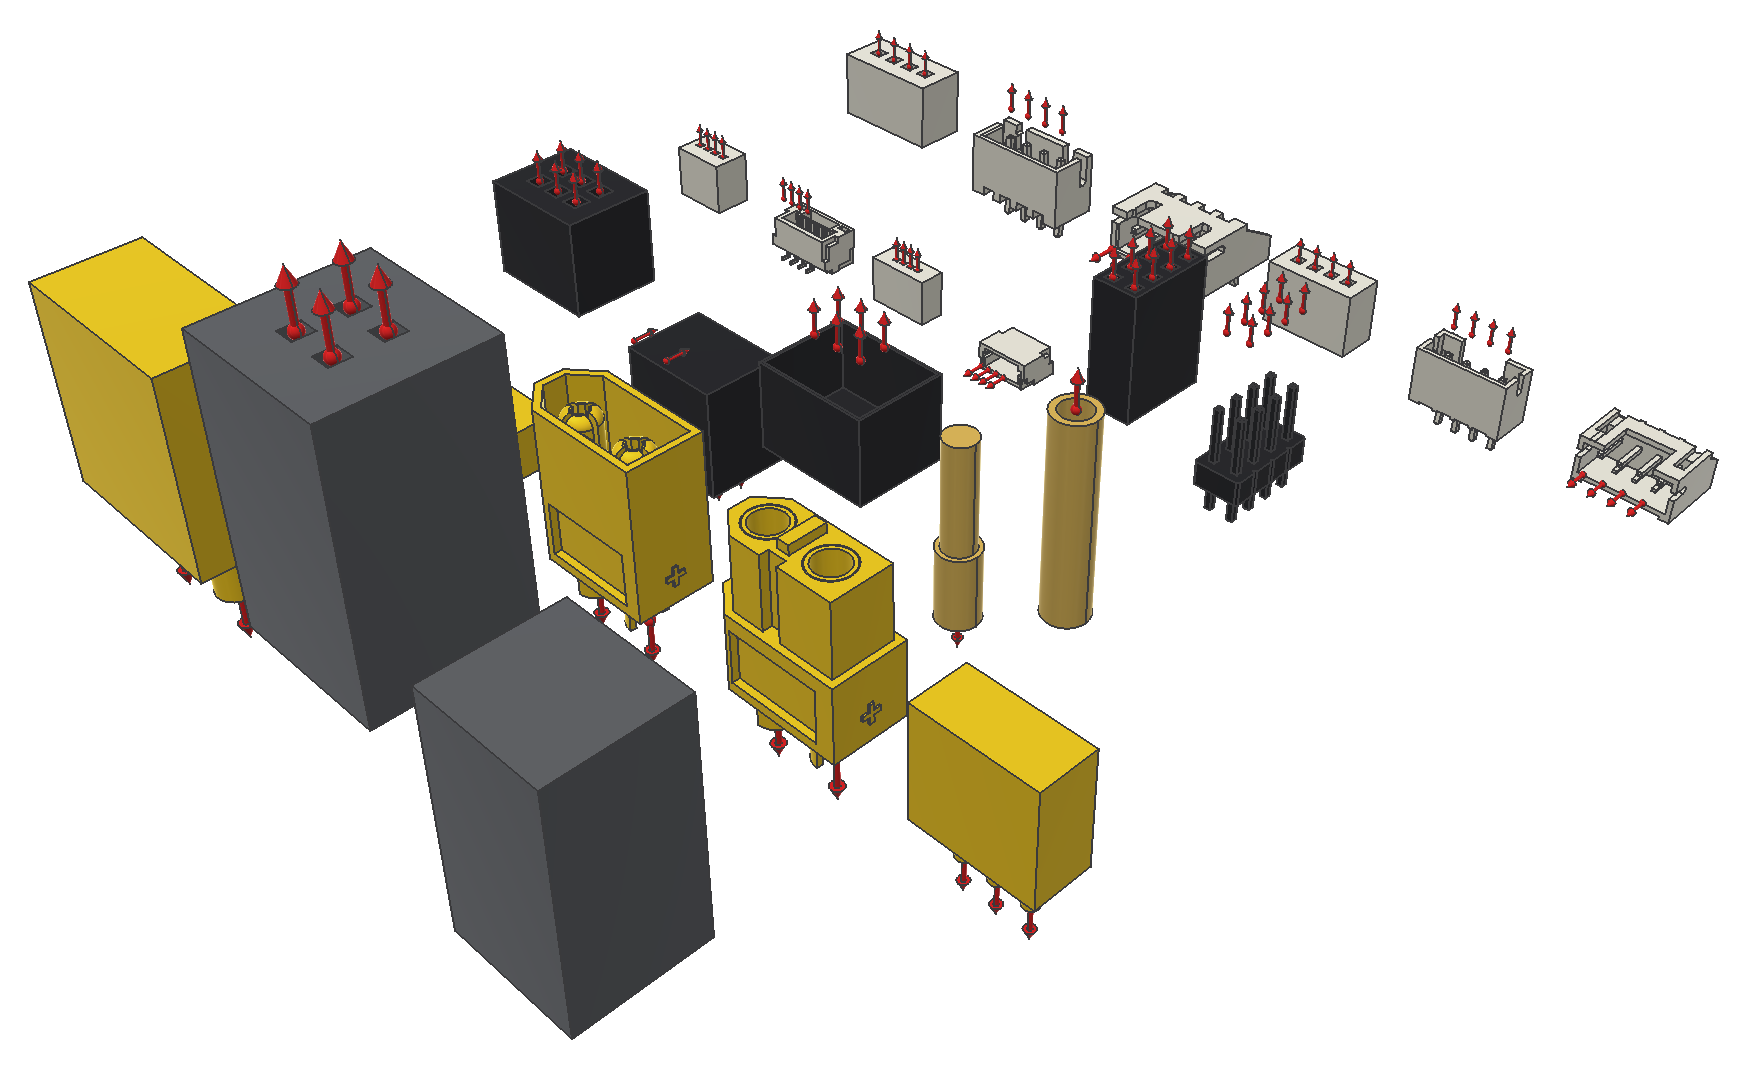
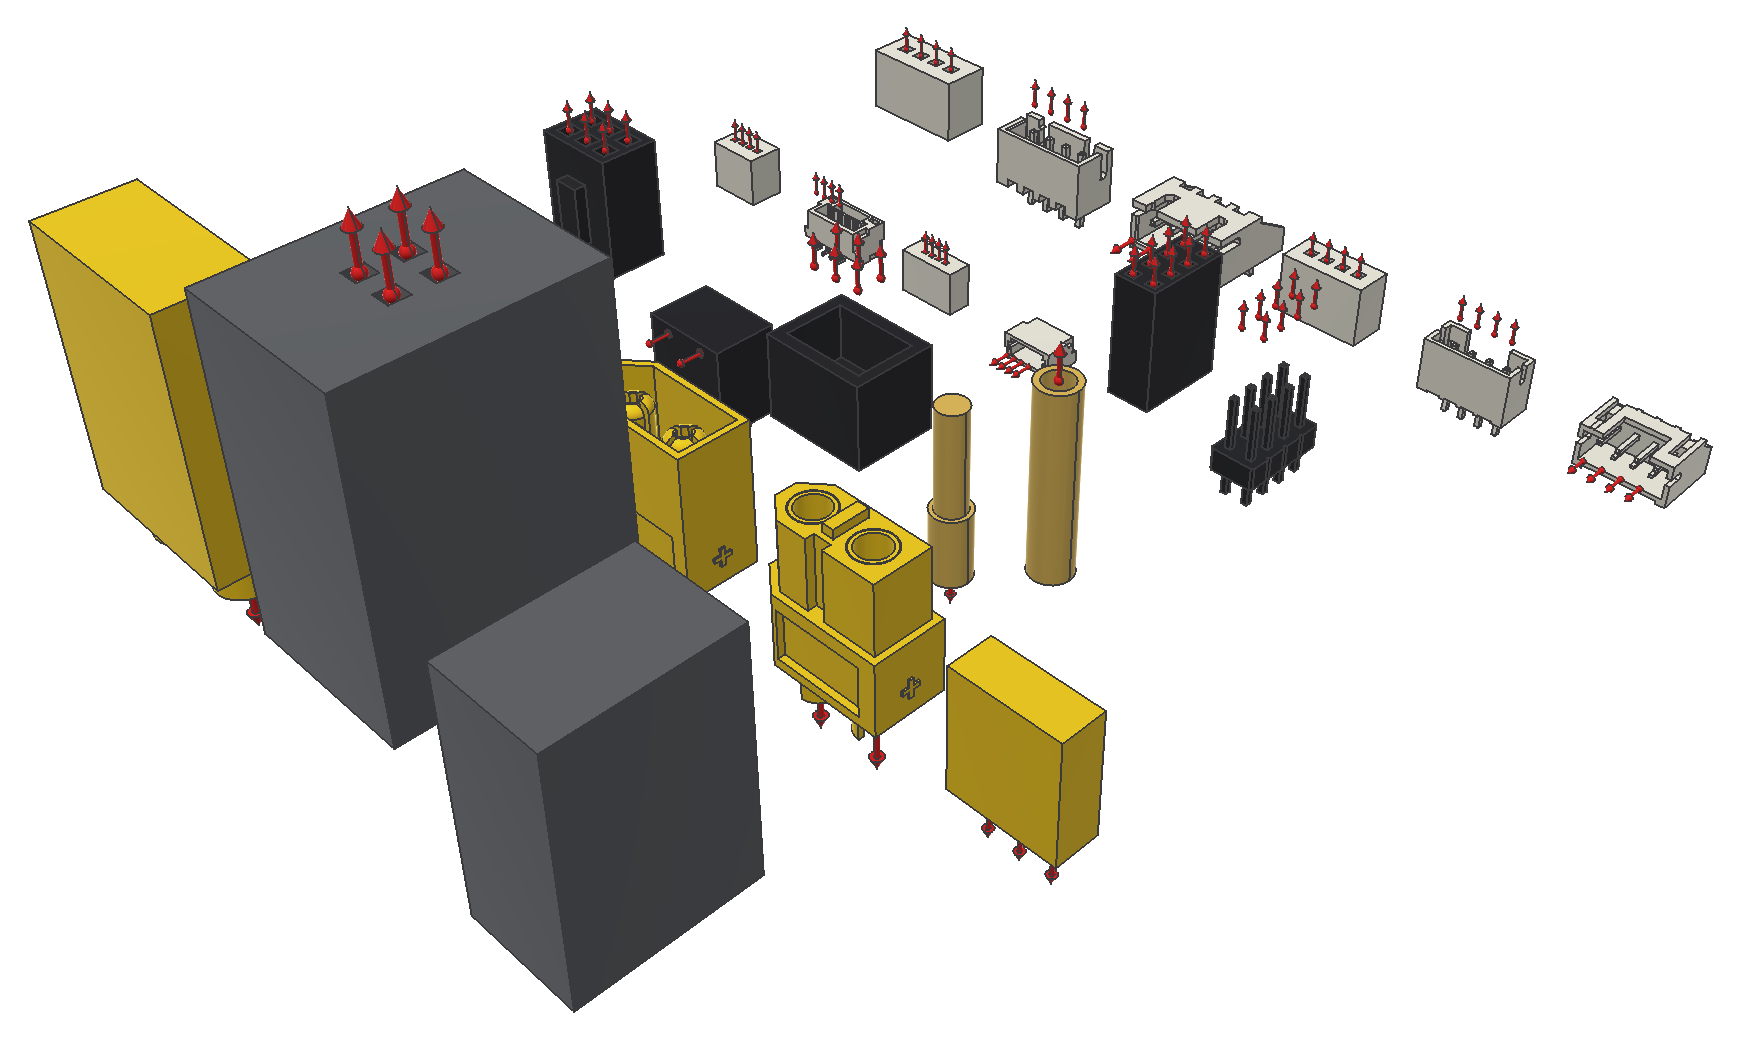
[BW] ROU-05: connector library chapter, answers and follow-up (30 Oct)
The connector library chapter gets the user's answers of 30 Oct and what was done: no further KiCad
models exist for the parametric families, terminals, seals and wedgelocks as Standard Library parts
ordered by manufacturer P/N, the dimension tables checked against the manufacturers' drawings, the
colours kept, the fresh dry-run numbering and the import command for the main session, and new open
questions. The figure is rendered again from the regenerated library.

Changed region(s): [[0.0, 0.0308, 0.9931, 0.8923], [0.2793, 0.8923, 0.3103, 0.9538], [0.3103, 0.9538, 0.3414, 0.9846]]

diff --git a/package/bruceworx/docs/fusion-ui-plan/chapters/75b-connlib-built.tex b/package/bruceworx/docs/fusion-ui-plan/chapters/75b-connlib-built.tex
@@ -61,19 +61,19 @@ JST GH (1.25) & 21 & 14 & 7 & \code{GHR-0nV-S}; \code{BM0nB-GHS-TBT}, \code{SM0n
   30--26\,AWG\\
 JST SH (1.00) & 21 & 14 & 7 & \code{SHR-0nV-S-B}; \code{BM0nB-SRSS-TB}, \code{SM0nB-SRSS-TB}; \code{SSH-003T-P0.2-H},
   32--28\,AWG\\
-Dupont 2.54 & 28 & 14 & 14 & housings $1\times2$--$1\times8$, $2\times2$--$2\times8$ (generic); male pin headers
-  (KiCad); generic female crimp, 28--22\,AWG\\
+Dupont 2.54 & 28 & 14 & 14 & Amphenol FCI Mini-PV housings \code{65039-0xxLF} ($1\times2$--$1\times8$),
+  \code{65043-0xxLF} ($2\times2$--$2\times8$); male pin headers (KiCad, generic); \code{48235-000LF}, 26--22\,AWG\\
 Micro-Fit 3.0 & 18 & 0 & 18 & \code{43025} receptacle, \code{43020} plug, \code{43045-xx12} vertical header (pads from
   KiCad, no model installed); \code{43030-0007}/\code{43031-0007}, 24--20\,AWG\\
 XT30 & 4 & 0 & 4 & \code{XT30U-M/F}, \code{XT30PW-M/F} (pads from KiCad); solder cup, 18--16\,AWG\\
 XT60 & 4 & 2 & 2 & \code{XT60-M/F} (KiCad models), \code{XT60PW-M/F}; 14--12\,AWG\\
-XT90 & 3 & 0 & 3 & \code{XT90-M/F}, \code{XT90PW-M}; 10--8\,AWG\\
+XT90 & 3 & 0 & 3 & \code{XT90H-M/F}, \code{XT90PW-M}; 10--8\,AWG\\
 MR30 & 4 & 0 & 4 & \code{MR30-M/F}, \code{MR30PW-M/FB}; 18--16\,AWG\\
 Bullet 3.5\,mm & 2 & 0 & 2 & male and female, solder cup, 16--14\,AWG (generic)\\
 Deutsch DT & 12 & 0 & 12 & \code{DT04-nP} receptacle (pin \code{0460-202-16141}), \code{DT06-nS} plug (socket
-  \code{0462-201-16141}); 20--16\,AWG; seal \code{114017}; wedgelocks \code{WnP}/\code{WnS}\\
+  \code{0462-201-16141}); 20--16\,AWG; wedgelocks \code{WnP}/\code{WnS}; no per-wire seal\\
 \midrule
-Total & 159 & 72 & 87 & every mating pair symmetric; 3\,MB of part files, built in 3.5\,s\\
+Total & 159 & 72 & 87 & every mating pair symmetric; plus 22 terminals, seals and wedgelocks (below)\\
 \bottomrule
 \end{tabularx}
 \end{center}
@@ -106,12 +106,12 @@ Distributing the library parts themselves (not designs) should keep that notice 
         P/N and mates by MPN.
   \item \textbf{Headers get frames} at the mated housing's rear face (\code{FrameAt}~=~\emph{Mated plug}, agreed with
         rou05), so routing to a board connector works before the wire-side housing is placed.
-  \item \textbf{Dupont} is generic (manufacturer ``Generic (Dupont-style)'', MPNs \code{DUPONT-HSG-1x04},
-        \code{HDR254-M-1x04}); female-crimp housings on male headers only.
-  \item \textbf{DT seal}: the DT wire seal is part of the rear grommet; \code{SealPN} holds \code{114017}, the sealing
-        plug for an unused cavity, and the notes say so.
-  \item \textbf{Colours} are not stored: a part saved by FreeCADCmd has no view data, so bodies open in the default
-        grey (the figure uses the manifest's colours).
+  \item \textbf{Dupont} housings are the original, Amphenol FCI Mini-PV (clones fit); the male pin headers stay
+        generic (\code{HDR254-M-1x04}); female-crimp housings on male headers only.
+  \item \textbf{DT seal}: the DT wire seal is the one-piece rear grommet inside the housing, so the pins have no
+        \code{SealPN}; \code{114017}, the sealing plug for an unused cavity, is a library part named in the notes.
+  \item \textbf{Colours} are stored: the library is built by the GUI FreeCAD (off screen), and the import puts the
+        view data back after FreeCADCmd numbers the copy (\code{restore\_view\_data}).
   \item \textbf{Import} through \code{vault\_setup.new\_item} with kind \emph{cots} (the Standard Libraries' type),
         not \code{vault import}, which numbers files as \emph{part}; the vault files themselves are unchanged.
 \end{itemize}
@@ -152,6 +152,130 @@ male-crimp housings and pin sockets; JST 1-pin and $>8$-pin, single-row Micro-Fi
   against the datasheets before the harness drawings rely on them? & Approximate, about $\pm1$\,mm.\\
 5 & JST crimp: \code{SXH-001T-P0.6} (28--22\,AWG) as the XH default, or \code{SXH-002T-P0.6} (30--26) for thin wire?
   & 001T; the other is in the notes.\\
+\bottomrule
+\end{tabularx}
+\end{center}
+
+%----------------------------------------------------------------------
+\subsubsection*{Answers and follow-up (30 Oct)}
+
+\begin{center}
+\small
+\begin{tabularx}{\linewidth}{@{}lXX@{}}
+\toprule
+\# & Your answer & What was done\\
+\midrule
+1 & Import into the real Standard Libraries: approved; the vault stays on the Extreme SSD; the main session runs it
+  with Keystone closed, after a backup. & Not run here (single writer). Library, manifest and the command below;
+  a fresh dry run on a fresh copy numbers all 181 parts.\\
+2 & Install KiCad's 3D models to replace the outlines. & Nothing to install: see below. Still 87 outlines.\\
+3 & Terminals and seals by manufacturer P/N; STD numbers for finding. & 22 terminals, seals and wedgelocks are
+  library parts; pins carry MPN and manufacturer, and the STD number after import; the ordering list prints
+  manufacturer and MPN.\\
+4 & Check Micro-Fit, Dupont, XT, MR30 and DT against the datasheets. & Done where the drawings could be had;
+  tables fixed (below), estimates marked.\\
+5 & Keep \code{SXH-001T-P0.6} as the XH crimp. & Kept.\\
+-- & Save view colours if cheap. & Done: GUI build, colours kept through the import.\\
+\bottomrule
+\end{tabularx}
+\end{center}
+
+\paragraph{KiCad models (answer 2).} The connector folders of the official library
+(\file{kicad-packages3D} on GitLab) were compared with what is installed: the tags \code{10.0.8} (KiCad~10's library;
+the app is 10.0.5), \code{9.0.3} back to \code{5.1.12}, and the \code{dev} branch. The installed
+\file{Connector\_JST}, \file{Connector\_Molex}, \file{Connector\_AMASS} and the 2.54\,mm pin header and socket folders
+are \emph{identical} to 10.0.8 (158, 89, 2, 278, 278 STEP files), and no tag or branch has a model for a Micro-Fit
+part, XT30, XT90, MR30, any JST wire housing or Deutsch DT (\file{Connector\_AMASS} has only the two XT60 models; TE has
+no DT). So nothing was downloaded and KiCad's setup is untouched; the 87 parametric connector outlines stay (28 JST housings, 14 Mini-PV
+housings, 18 Micro-Fit, 13 XT30/XT60PW/XT90/MR30, 2 bullets, 12 DT), and the 22 terminals, seals and wedgelocks
+are simple outlines too. Real bodies for them would have to come
+from the manufacturers' STEP files (Molex, TE, AMASS; behind logins and their own licences) --- question~6.
+
+\paragraph{Terminals, seals, wedgelocks (answer 3).} Agreed with rou05 as schema v1.2:
+\begin{itemize}[nosep]
+  \item each crimp pin has \code{TerminalPN} (the manufacturer's P/N, for ordering), \code{TerminalMfr} and
+        \code{TerminalItem} (its Standard Library P/N, for finding); \code{SealPN}/\code{SealMfr}/\code{SealItem} the
+        same; a DT connector lists its wedgelock in \code{Accessories} (\code{MPN|manufacturer|STD item|qty|kind});
+  \item the 22 parts are \emph{cots} items of their own with \code{Manufacturer}, \code{ManufacturerPartNumber} and
+        \code{AccessoryKind}: the JST, Mini-PV and Micro-Fit crimp terminals, the two Deutsch size-16 contacts, the
+        \code{114017} sealing plug and the twelve wedgelocks \code{W2P}\ldots\code{W12S};
+  \item the import numbers them first, then writes their STD numbers into every connector's pins and
+        \code{Accessories} as it checks the connector in; a terminal already in the vault keeps its number;
+  \item the import writes \file{vault\_numbers.csv} beside the manifest (vault P/N, manufacturer, MPN, description,
+        role): the list to order from. rou05's BOM keys the terminal lines by the STD item and prints
+        manufacturer and MPN.
+\end{itemize}
+
+\paragraph{Dimensions checked (answer 4).} Sources: Molex \emph{SD-43025-002} (receptacle) and the product pages of
+\code{43045-0212}/\code{-1415}; FCI customer drawing \emph{65043} rev.\,BG (Mini-PV dual row); the AMASS XT catalogue
+(Feb~2026, china-amass.com) and AMASS spec sheets for \code{XT30PW-M}, \code{XT60PW-M}, \code{XT90PW-M},
+\code{MR30PW-M}; the Deutsch industrial catalogue and TE drawing \emph{C-2286003} (\code{DT06-2S}). Molex, TE and
+Amphenol block scripted downloads, so the PDFs were read from distributor mirrors of the manufacturers' own
+drawings (chipdip, comet.bg, LCSC, onlinecomponents). What changed:
+\begin{center}
+\small
+\begin{tabularx}{\linewidth}{@{}lXX@{}}
+\toprule
+Family & Was & Now (source)\\
+\midrule
+Micro-Fit & receptacle $3c{+}3.6$ wide, 9.85 deep, 10.6 long; wire face 12.6 above the PCB & $3c{+}0.85$ wide
+  ($c$ columns), 6.86 deep (7.57 for 2 and 4 circuits), 14.0 long, latch on the row-2 side; wire face
+  \textbf{17.64} above the PCB (Molex mated height); plug 10.77 beyond the mating face (24.77 mated)\\
+Dupont & generic housings \code{DUPONT-HSG-\ldots}, generic terminal, 14.0 tall & Amphenol FCI Mini-PV
+  \code{65039-0xxLF} / \code{65043-0xxLF}, 13.84 tall, 5.08 deep (dual); contact \code{48235-000LF}, 26--22\,AWG;
+  wire face 16.38 above the PCB\\
+XT30 / XT60 & one length per family & per MPN: \code{XT30U-M} 13.7, \code{-F} 12.4, cups 3.0; XT60 20.5/20.2\\
+XT90 & \code{XT90-M/F}, pitch 10.9 & \code{XT90H-M/F} (the current AMASS parts), pitch 11.0, 30.7/29.7 long\\
+MR30 & 13.0 wide, cups 4.0 & 11.9 wide, 4.9 thick, bodies 13.4/12.4, cups 2.0\\
+PCB (PW) & body length from the KiCad pegs & AMASS heights and pin-to-face lengths (\code{XT30PW-M} 5.2 / 13.05,
+  \code{XT60PW-M} 8.4 / 14.7, \code{XT90PW-M} 10.2 / 24.6, \code{MR30PW-M} 4.9 / 13.05)\\
+Deutsch DT & pitch 5.0 everywhere, 3-way in line, seal \code{114017} on every pin & spacing 5.46 (2-way), 4.45--4.47
+  (others), \textbf{3-way triangular}, plug \code{DT06-2S} $15.0\times15.8\times28.8$; \textbf{no per-wire seal}
+  (one-piece rear grommet); contacts 20--16\,AWG\\
+\bottomrule
+\end{tabularx}
+\end{center}
+Still estimates (marked in the generator): the 43045 vertical header's own body and the 43020 plug's width; the
+single-row Mini-PV suffixes \code{-034LF} and \code{-029LF} (inferred from the dual-row pattern) and its depth; the
+mated cup position of the XT30/XT90/MR30 PCB parts and the female PW lengths; the DT receptacle outline, the 3-way
+triangle size and the DT cavity numbering (1\ldots$k$ along one row and back along the other); 43031-0007's AWG range.
+
+\paragraph{The library now.} 181 parts: 159 connectors (unchanged list but \code{XT90H}, the Mini-PV MPNs) and 22
+terminals, seals and wedgelocks; built by the GUI FreeCAD off screen in 18\,s, 4.8\,MB, every file with its colours.
+Commit \code{323ec9bb}.
+
+\paragraph{Import command (for the main session; Keystone closed, vault backed up).} The library is in the connlib
+scratch folder (\file{agent-connlib/library/}). From the repository:
+\begin{center}
+\small
+\code{BW\_CONNLIB\_ARGS="import -{}-vault '<Standard Libraries>' -{}-manifest <library>/manifest.json"}\\
+\code{build/release/bin/FreeCADCmd -u <cfg> <script that calls bruceworx.connector\_library.main()>}
+\end{center}
+(FreeCADCmd so the P/N, the revision and the STD numbers are written into each file; \code{-{}-dry-run} first). A fresh
+dry run on a fresh copy of your vault (3 items, next parent 1004) numbers the terminals, seals and wedgelocks
+\code{STD-01-01004-001} \ldots{} \code{STD-01-01025-001} and the connectors \code{STD-01-01026-001} \ldots{}
+\code{STD-01-01184-001}. The full import into that copy took 3\,s: 184 items, \code{XHP-4} with
+\code{TerminalItem}~=~\code{STD-01-01004-001}, \code{DT04-4P} with its wedgelock \code{W4P} as
+\code{STD-01-01018-001}, colours kept; a second dry run finds nothing left to import.
+
+\paragraph{Tests.} FreeCAD-free 20 (new: accessories as parts with their manufacturers, every pin's terminal a
+library part, accessories numbered first and their numbers handed to the pins, the ordering list, the view data
+restored, the DT layouts and the checked values); headless FreeCAD 9 (new: terminal and wedgelock parts, the pins'
+\code{TerminalMfr}, \code{Accessories}, \code{fill\_items} on a DT connector). All pass.
+
+\paragraph{New open questions.}
+\begin{center}
+\small
+\begin{tabularx}{\linewidth}{@{}lXX@{}}
+\toprule
+\# & Question & Built for now (recommendation)\\
+\midrule
+6 & The 87 outlines: download the manufacturers' STEP files (Molex 43025/43020/43045, AMASS XT30/XT90/MR30, TE
+  DT) by hand, under their licences, and let the generator use them? & Outlines; the frames would need checking
+  against each model's origin, so one family at a time.\\
+7 & Pin headers: pick a real MPN (e.g.\ a Samtec or Amphenol 2.54\,mm header) so the board side orders by MPN too?
+  & Generic for now.\\
+8 & DT cavity numbering: confirm against a TE customer drawing (te.com blocks scripted downloads). & Estimated.\\
 \bottomrule
 \end{tabularx}
 \end{center}
